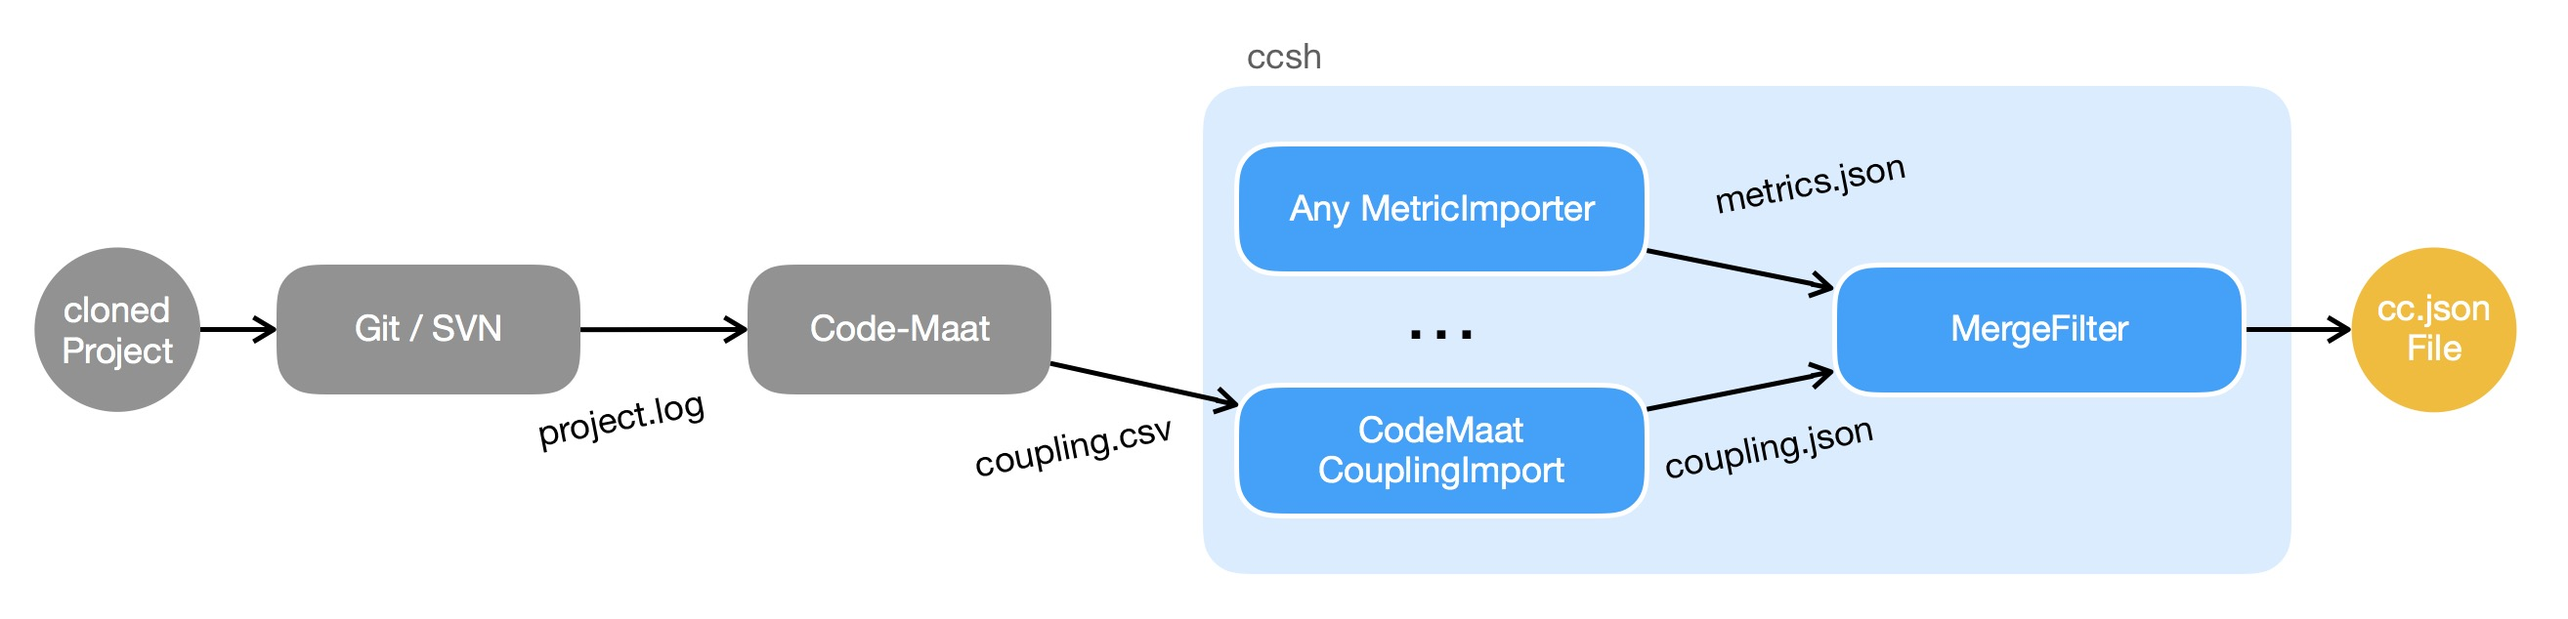
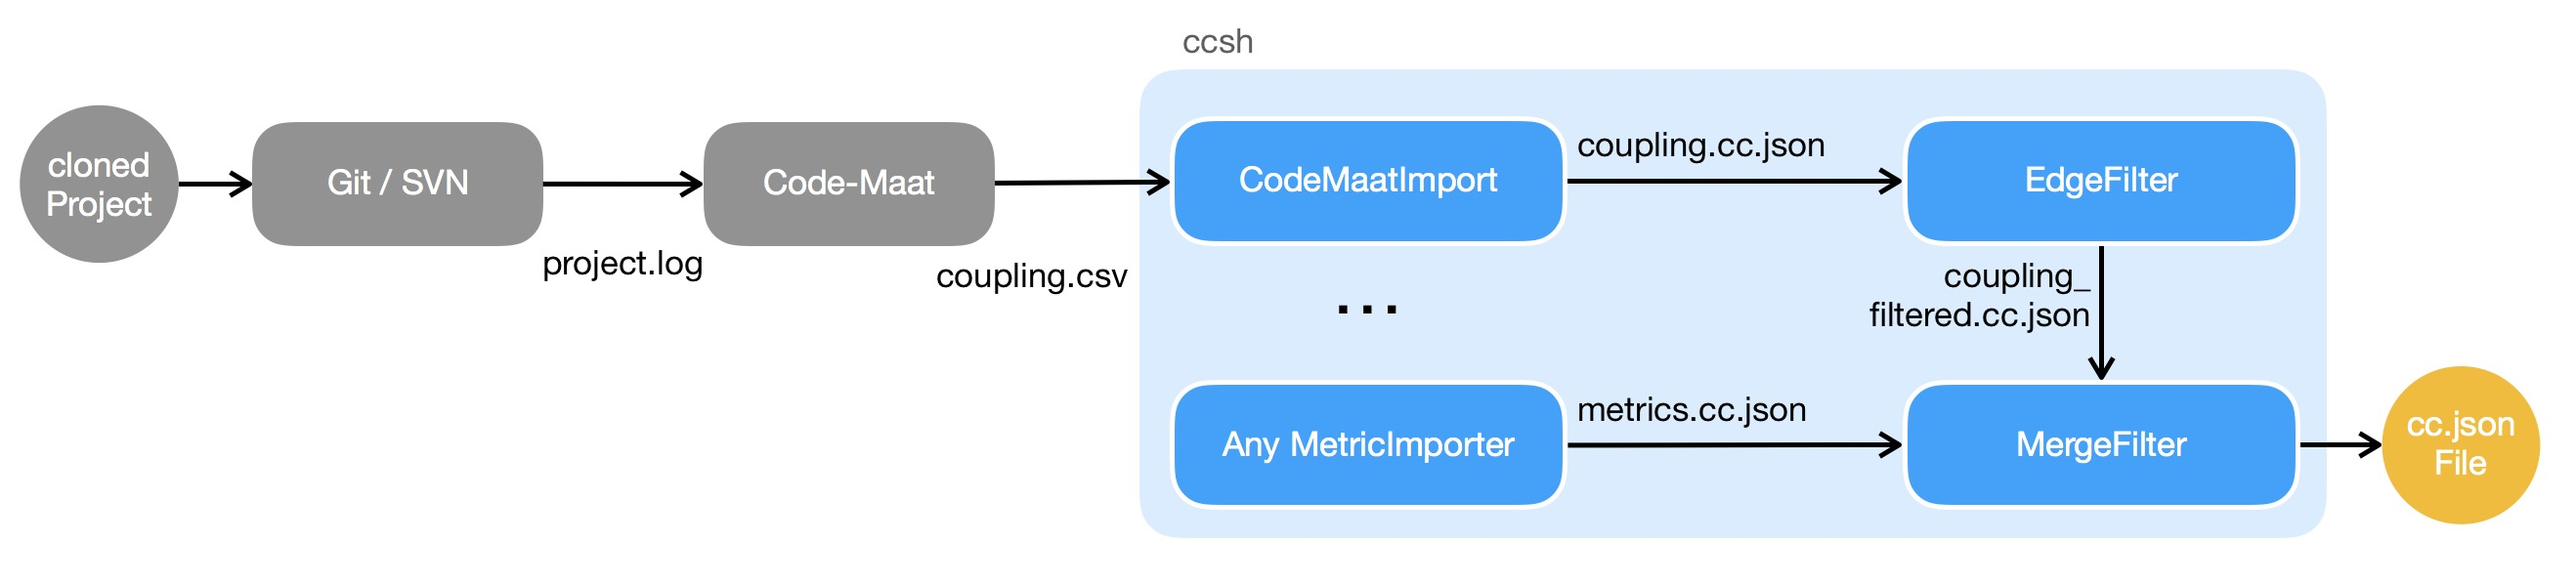
Update README.md files #222

diff --git a/analysis/import/CodeMaatImporter/README.md b/analysis/import/CodeMaatImporter/README.md
@@ -1,6 +1,6 @@
 # CodeMaatImporter
 
-Generates visualisation data from CodeMaat Temporal Coupling CSV data with header. You can find the analizing tool on GitHub https://github.com/adamtornhill/code-maat
+Generates visualisation data from CodeMaat Temporal Coupling CSV data with header. You can find the analysing tool on GitHub https://github.com/adamtornhill/code-maat
 
 ## Usage
 
@@ -10,17 +10,21 @@ Generates visualisation data from CodeMaat Temporal Coupling CSV data with heade
 
 2. Analyse the Log with [CodeMaat](https://github.com/adamtornhill/code-maat)
 
-    `maat -c git -l project.log -a coupling > coupling.csv`
+    `maat -c git -l project.log -a coupling > edges.csv`
 
 3. Convert csv file to cc.json format with CodeMaatImporter
 
-    `ccsh codemaatimport coupling.csv -o coupling.cc.json`
-        
-4. Merge the coupling data with the project metrics file while using the [MergeFilter](https://github.com/MaibornWolff/codecharta/blob/master/analysis/filter/MergeFilter/README.md)
+    `ccsh codemaatimport edges.csv -o edges.cc.json`
+      
+4. Aggregate edge-attributes and insert them into the appropriate nodes attribute-list with [EdgeFilter](https://github.com/MaibornWolff/codecharta/blob/master/analysis/filter/EdgeFilter/README.md)
+      
+    `ccsh edgefilter edges.cc.json -o visual_edges.cc.json`
+            
+5. Merge the coupling data with the project metrics file while using the [MergeFilter](https://github.com/MaibornWolff/codecharta/blob/master/analysis/filter/MergeFilter/README.md)
 
-    `ccsh merge coupling.cc.json metrics.cc.json -o merged.cc.json`
+    `ccsh merge visual_edges.cc.json metrics.cc.json -o merged.cc.json`
     
-5. Visualizing `merged.cc.json` with [Visualization](https://github.com/MaibornWolff/codecharta/tree/master/visualization)
+6. Visualizing `merged.cc.json` with [Visualization](https://github.com/MaibornWolff/codecharta/tree/master/visualization)
 
 ![CodeMaatImport Modell](src/codemaatimport-modell.jpg)
 
@@ -39,7 +43,7 @@ $ cat project.log
 ```
 
 ```
-$ cat coupling.csv
+$ cat edges.csv
 entity,coupled,degree,average-revs
 app/codeCharta.html, app/codeCharta.scss, 56, 10
 app/testVille.html, app/codeCharta.html, 42, 8
@@ -47,7 +51,7 @@ app/testVille.html, app/codeCharta.html, 42, 8
 ```
 
 ```
-$ cat coupling.cc.json
+$ cat edges.cc.json
 {
   "projectName": "Sample Project with edges",
   "apiVersion": "1.1",
@@ -57,27 +61,103 @@ $ cat coupling.cc.json
       "type": "Folder",
       "attributes": {},
       "children": []
+    }
+  ],
+  "edges": [
+    {
+      "fromNodeName": "/root/app/codeCharta.html",
+      "toNodeName": "/root/app/codeCharta.scss",
+      "attributes": {
+        "pairingRate": 56,
+        "avgCommits": 10
+      }
+    },
+    {
+      "fromNodeName": "/root/app/testVille.html",
+      "toNodeName": "/root/app/codeCharta.html",
+      "attributes": {
+        "pairingRate": 42,
+        "avgCommits": 8
+      }
+    }
+  ],
+  "attributeTypes": {
+    "edges": [
+      "pairingRate": "relative",
+      "avgCommits": "absolute"
+    ]
+  }
+}
+```
+
+```
+$ cat visual_edges.cc.json
+{
+  "projectName": "Sample Project with edges",
+  "apiVersion": "1.1",
+  "nodes": [
+    {
+      "name": "root",
+      "type": "Folder",
+      "attributes": {},
+      "children": [
+        {
+          "name": "app",
+          "type": "Folder",
+          "attributes": {},
+            "children": [
+              {
+                "name": "codeCharta.html",
+                "type": "File",
+                "attributes": {
+                  "pairingRate": 49,
+                  "avgCommits": 18
+                }
+              },
+              {
+                "name": "codeCharta.scss",
+                "type": "File",
+                "attributes": {
+                  "pairingRate": 56,
+                  "avgCommits": 10
+                }
+              },
+              {
+                "name": "testVille.html",
+                "type": "File",
+                "attributes": {
+                  "pairingRate": 42,
+                  "avgCommits": 8
+                }
+              }
+            ]
         }
       ]
     }
   ],
   "edges": [
-      {
-        "fromNodeName": "/root/app/codeCharta.html",
-        "toNodeName": "/root/app/codeCharta.scss",
-        "attributes": {
-          "pairingRate": 56,
-          "avgCommits": 10
-        }
-      },
-      {
-        "fromNodeName": "/root/app/testVille.html",
-        "toNodeName": "/root/app/codeCharta.html",
-        "attributes": {
-          "pairingRate": 42,
-          "avgCommits": 8
-        }
+    {
+      "fromNodeName": "/root/app/codeCharta.html",
+      "toNodeName": "/root/app/codeCharta.scss",
+      "attributes": {
+        "pairingRate": 56,
+        "avgCommits": 10
       }
+    },
+    {
+      "fromNodeName": "/root/app/testVille.html",
+      "toNodeName": "/root/app/codeCharta.html",
+      "attributes": {
+        "pairingRate": 42,
+        "avgCommits": 8
+      }
+    }
+  ],
+  "attributeTypes": {
+    "edges": [
+      "pairingRate": "relative",
+      "avgCommits": "absolute"
     ]
+  }
 }
 ```

diff --git a/analysis/README.md b/analysis/README.md
@@ -31,6 +31,7 @@ Components that take visualisation data and modifies them.
 | Name                                        | Description                 |
 | ---                                         | ---                         |
 | [MergeFilter](filter/MergeFilter/README.md) | merges multiple json files  |
+| [EdgeFilter](filter/EdgeFilter/README.md)   | aggregates edge-attributes of each appropriate node and inserts them into the nodes attribute-list |
 
 ### Exporter
 

diff --git a/analysis/filter/EdgeFilter/README.md b/analysis/filter/EdgeFilter/README.md
@@ -1,6 +1,11 @@
 # EdgeFilter
 
+Generates visualisation data from a cc.json file with edges data. 
+For every node its edge-attributes get aggregated and inserted as node-attribute.
+After using this command the file can be visualized inside the visualization as the `edgefilter` creates nodes,
+if they didnt exist before.
 
 ## Usage
 
+`ccsh edgefilter edges.cc.json -o visual_edges.cc.json`
 
